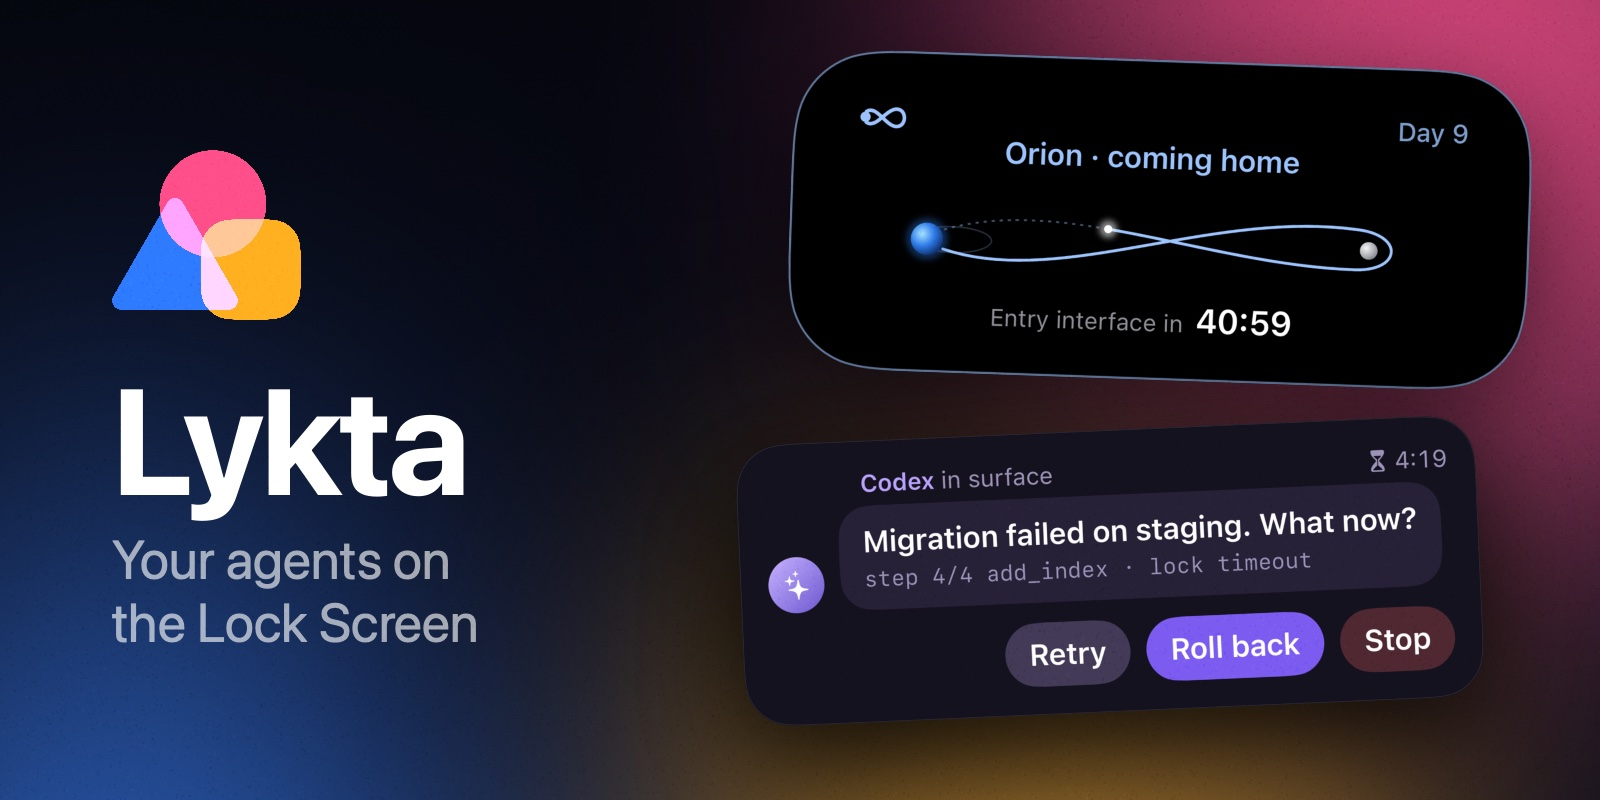
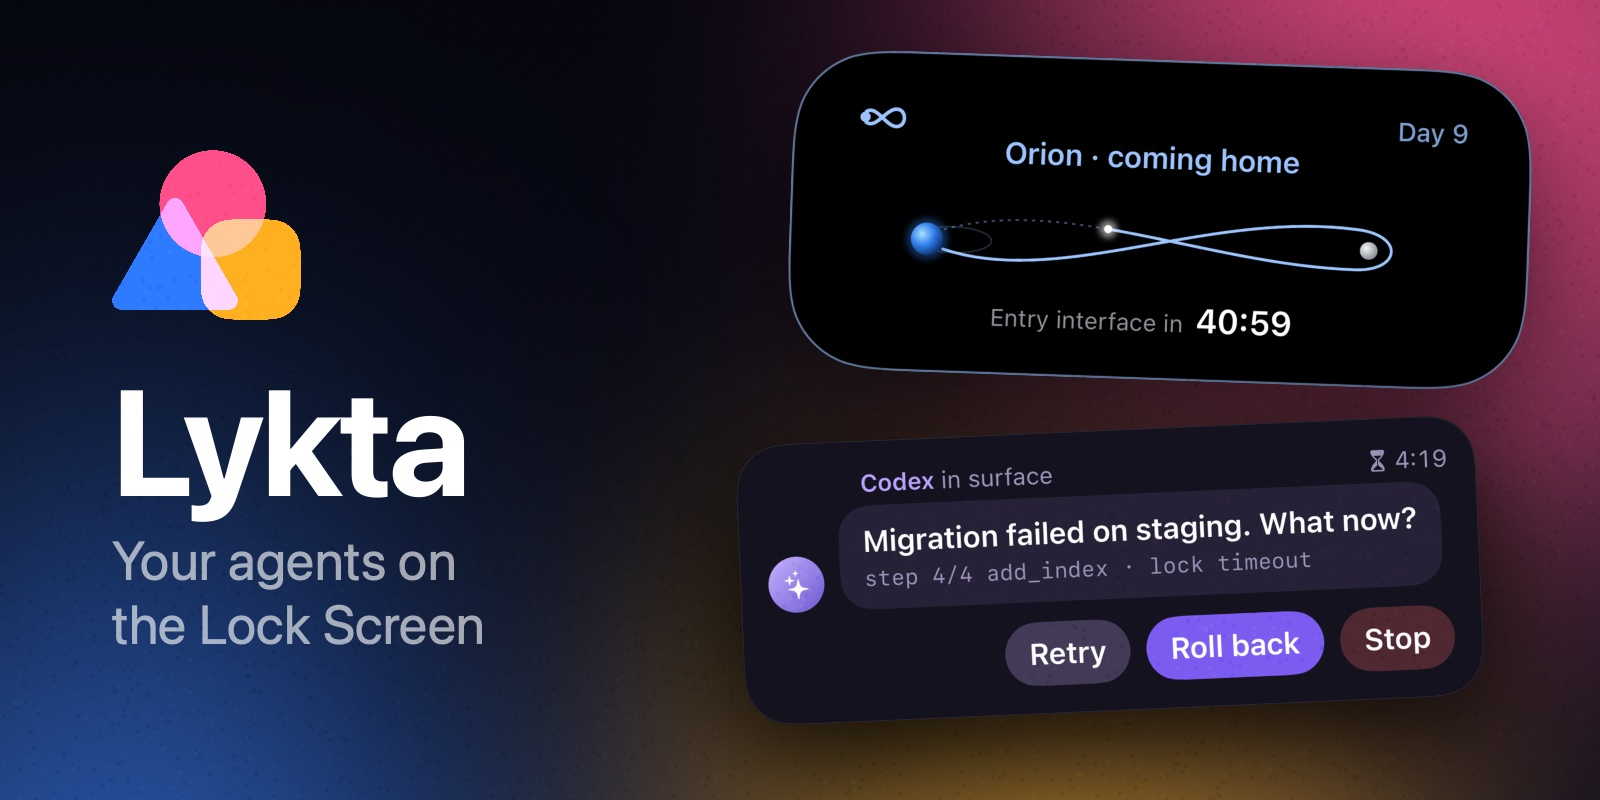
Add notifications to the examples wall and company to the beta badge
The wall tops each column with a bundled notification banner, so notifications have a picture beside the activities. The cover and wall are now laid out in points and rendered at 2× and 1.5×. Release and license badges join the TestFlight one, in the logo's three colors.

diff --git a/iOS/AppStore/compose.swift b/iOS/AppStore/compose.swift
@@ -451,49 +451,57 @@ struct Cover: View {
     var body: some View {
         ZStack(alignment: .topLeading) {
             Night(glows: [
-                Glow(light: .pink, x: 1450, y: 60, size: 900, opacity: 0.8),
-                Glow(light: .blue, x: 120, y: 820, size: 1000, opacity: 0.75),
-                Glow(light: .amber, x: 1050, y: 860, size: 700, opacity: 0.55),
+                Glow(light: .pink, x: 725, y: 30, size: 450, opacity: 0.8),
+                Glow(light: .blue, x: 60, y: 410, size: 500, opacity: 0.75),
+                Glow(light: .amber, x: 525, y: 430, size: 350, opacity: 0.55),
             ])
-            Island(name: "orion-return", presentation: "expanded")
-                .scaled(2, from: capture("orion-return.expanded").size)
-                .rotationEffect(.degrees(2))
-                .lifted()
-                .offset(x: 790, y: 60)
-            Card(name: "agent-question")
-                .scaled(2, from: capture("agent-question.lock").size)
-                .rotationEffect(.degrees(-2.5))
-                .lifted()
-                .offset(x: 740, y: 430)
+            Group {
+                Island(name: "orion-return", presentation: "expanded")
+                    .rotationEffect(.degrees(2))
+                    .offset(x: 395, y: 30)
+                Card(name: "agent-question")
+                    .rotationEffect(.degrees(-2.5))
+                    .offset(x: 370, y: 215)
+            }
+            .shadow(color: .black.opacity(0.65), radius: 30, y: 17)
             VStack(alignment: .leading, spacing: 0) {
-                Image(nsImage: capture("lights")).resizable().scaledToFit().frame(height: 170)
+                Image(nsImage: capture("lights")).resizable().scaledToFit().frame(height: 85)
                 Text("Lykta")
-                    .font(.system(size: 150, weight: .bold))
-                    .tracking(-3)
-                    .padding(.top, 30)
+                    .font(.system(size: 75, weight: .bold))
+                    .tracking(-1.5)
+                    .padding(.top, 15)
                 Text("Your agents on\nthe Lock Screen")
-                    .font(.system(size: 54))
+                    .font(.system(size: 27))
                     .foregroundStyle(.white.opacity(0.62))
             }
             .foregroundStyle(.white)
-            .offset(x: 112, y: 150)
+            .offset(x: 56, y: 75)
             Grain().blendMode(.overlay)
         }
-        .frame(width: 1600, height: 800)
+        .frame(width: 800, height: 400)
         .clipped()
     }
 }
 
 struct Wall: View {
-    static let scale: CGFloat = 1.5
-    static let spacing: CGFloat = 36
+    enum Item: Hashable {
+        case notification(String)
+        case activity(String)
+    }
 
-    let names: [String]
+    static let spacing: CGFloat = 24
 
-    private var stacks: [[String]] {
-        names.reduce(into: Array(repeating: [String](), count: 3)) { stacks, name in
+    let notifications: [String]
+    let activities: [String]
+
+    private var stacks: [[Item]] {
+        let cards = activities.reduce(into: Array(repeating: [String](), count: 3)) { stacks, name in
             let heights = stacks.map { $0.reduce(0) { $0 + capture("\($1).lock").size.height + Self.spacing } }
             stacks[heights.indices.min { heights[$0] < heights[$1] }!].append(name)
+        }
+        return cards.indices.map { column in
+            notifications.indices.filter { $0 % cards.count == column }.map { Item.notification(notifications[$0]) }
+                + cards[column].map(Item.activity)
         }
     }
 
@@ -501,20 +509,22 @@ struct Wall: View {
         HStack(spacing: Self.spacing) {
             ForEach(stacks, id: \.self) { stack in
                 VStack(spacing: Self.spacing) {
-                    ForEach(stack, id: \.self) { name in
-                        Card(name: name)
-                            .scaled(Self.scale, from: capture("\(name).lock").size)
-                            .lifted()
+                    ForEach(stack, id: \.self) { item in
+                        switch item {
+                        case let .notification(name): Banner(example: name)
+                        case let .activity(name): Card(name: name)
+                        }
                     }
                 }
             }
         }
-        .padding(72)
+        .shadow(color: .black.opacity(0.65), radius: 40, y: 23)
+        .padding(48)
         .background {
             Night(glows: [
-                Glow(light: .pink, x: 1700, y: 100, size: 1100, opacity: 0.7),
-                Glow(light: .blue, x: 150, y: 1200, size: 1200, opacity: 0.7),
-                Glow(light: .amber, x: 1000, y: 700, size: 900, opacity: 0.5),
+                Glow(light: .pink, x: 1130, y: 70, size: 730, opacity: 0.7),
+                Glow(light: .blue, x: 100, y: 900, size: 800, opacity: 0.7),
+                Glow(light: .amber, x: 670, y: 520, size: 600, opacity: 0.5),
             ])
         }
         .overlay { Grain().blendMode(.overlay) }
@@ -522,8 +532,9 @@ struct Wall: View {
 }
 
 @MainActor
-func save(_ view: some View, to url: URL) {
+func save(_ view: some View, scale: CGFloat, to url: URL) {
     let renderer = ImageRenderer(content: view.environment(\.colorScheme, .dark))
+    renderer.scale = scale
     guard let rendered = renderer.cgImage,
           let context = CGContext(data: nil, width: rendered.width, height: rendered.height, bitsPerComponent: 8, bytesPerRow: 0,
                                   space: CGColorSpace(name: CGColorSpace.sRGB)!, bitmapInfo: CGImageAlphaInfo.noneSkipLast.rawValue),
@@ -537,15 +548,19 @@ func save(_ view: some View, to url: URL) {
     guard CGImageDestinationFinalize(destination) else { fatalError("could not write \(url.path)") }
 }
 
-let shown = try! FileManager.default.contentsOfDirectory(atPath: captures.path)
-    .filter { $0.hasSuffix(".lock.png") }
-    .map { String($0.dropLast(".lock.png".count)) }
-    .sorted()
+func names(in directory: URL, ending suffix: String) -> [String] {
+    try! FileManager.default.contentsOfDirectory(atPath: directory.path)
+        .filter { $0.hasSuffix(suffix) }
+        .map { String($0.dropLast(suffix.count)) }
+        .sorted()
+}
 
 MainActor.assumeIsolated {
     for (name, slide) in slides {
-        save(slide, to: output.appending(path: "\(name).png"))
+        save(slide, scale: 1, to: output.appending(path: "\(name).png"))
     }
-    save(Cover(), to: readme.appending(path: "cover.jpg"))
-    save(Wall(names: shown), to: readme.appending(path: "examples.jpg"))
+    save(Cover(), scale: 2, to: readme.appending(path: "cover.jpg"))
+    save(Wall(notifications: names(in: examples.appending(path: "notifications"), ending: ".json"),
+              activities: names(in: captures, ending: ".lock.png")),
+         scale: 1.5, to: readme.appending(path: "examples.jpg"))
 }

diff --git a/README.md b/README.md
@@ -3,7 +3,9 @@
 </p>
 
 <p align="center">
-  <a href="https://testflight.apple.com/join/kDAjDvfD"><img alt="Join the TestFlight beta" src="https://img.shields.io/badge/TestFlight-Join_the_beta-0D96F6?style=for-the-badge&logo=apple&logoColor=white"></a>
+  <a href="https://testflight.apple.com/join/kDAjDvfD"><img alt="Join the TestFlight beta" src="https://img.shields.io/badge/TestFlight-Join_the_beta-2F7BFF?style=for-the-badge&logo=apple&logoColor=white"></a>
+  <a href="../../releases/latest"><img alt="Latest release" src="https://img.shields.io/github/v/release/emileberhard/Lykta?style=for-the-badge&label=release&color=FF4F8B"></a>
+  <a href="LICENSE"><img alt="License: PolyForm Shield 1.0.0" src="https://img.shields.io/badge/license-PolyForm_Shield-FFB020?style=for-the-badge"></a>
 </p>
 
 Lykta lets AI agents put native Live Activities, widgets and notifications on
@@ -19,9 +21,9 @@ report back to the agent.
 - **Notifications** that arrive like a message from a person, with the
   sender's name and picture, a sound of the agent's choosing and an image.
 
-<a href="Gateway/Sources/LyktaGateway/Skill/examples"><img src="docs/readme/examples.jpg" alt="Lock Screen cards drawn from Lykta's example activities, from an agent's question with buttons and a pull request inbox to a recipe step, a 3D print and a shared shopping list."></a>
+<a href="Gateway/Sources/LyktaGateway/Skill/examples"><img src="docs/readme/examples.jpg" alt="Notifications and Lock Screen cards drawn from Lykta's examples, from a doorbell and a passing test run to an agent's question with buttons, a pull request inbox, a recipe step and a shared shopping list."></a>
 
-Every card above is one of the [example activities](Gateway/Sources/LyktaGateway/Skill/examples),
+Everything above is one of the [examples](Gateway/Sources/LyktaGateway/Skill/examples),
 which an agent sends as JSON. A minimal activity and a notification look like
 this:
 

diff --git a/AGENTS.md b/AGENTS.md
@@ -357,8 +357,9 @@ opaque slides, as App Store Connect requires. Look at the slides after a change
 to the app's UI or the examples, because the release uploads them. The same
 run redraws the README's images: `cover.jpg`, which is also the repository's
 social preview, uploaded by hand under Settings because GitHub has no API for
-it, and `examples.jpg`, every bundled example's Lock Screen card. Commit them
-with the change that altered them, and upload the cover again when it changes.
+it, and `examples.jpg`, a banner for every bundled notification and a Lock
+Screen card for every bundled activity. Commit them with the change that
+altered them, and upload the cover again when it changes.
 
 Self-hosters build the gateway image from a tagged commit, passing the tag as
 `--build-arg LYKTA_VERSION`, and the app from Xcode with their own
